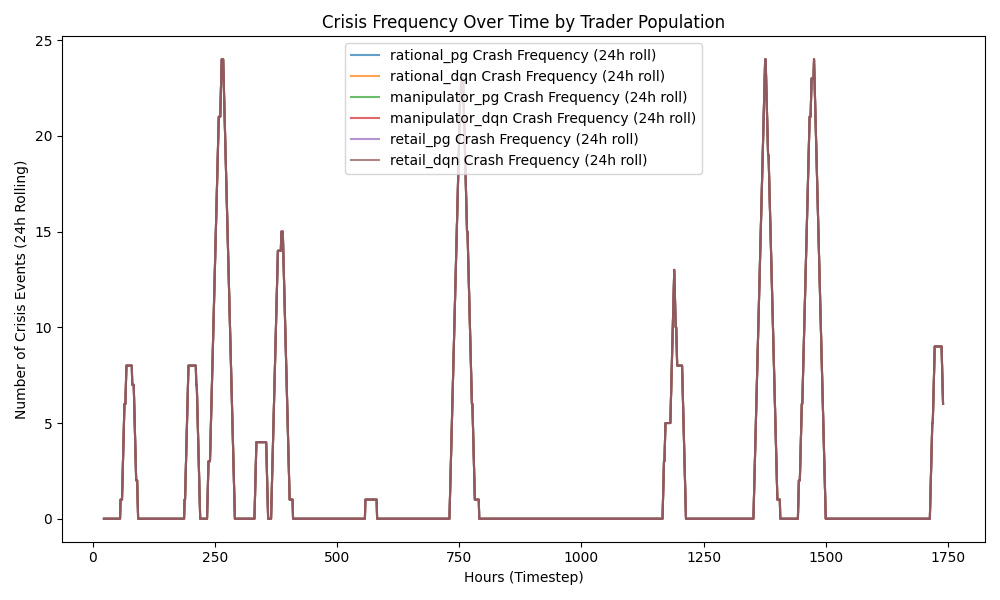
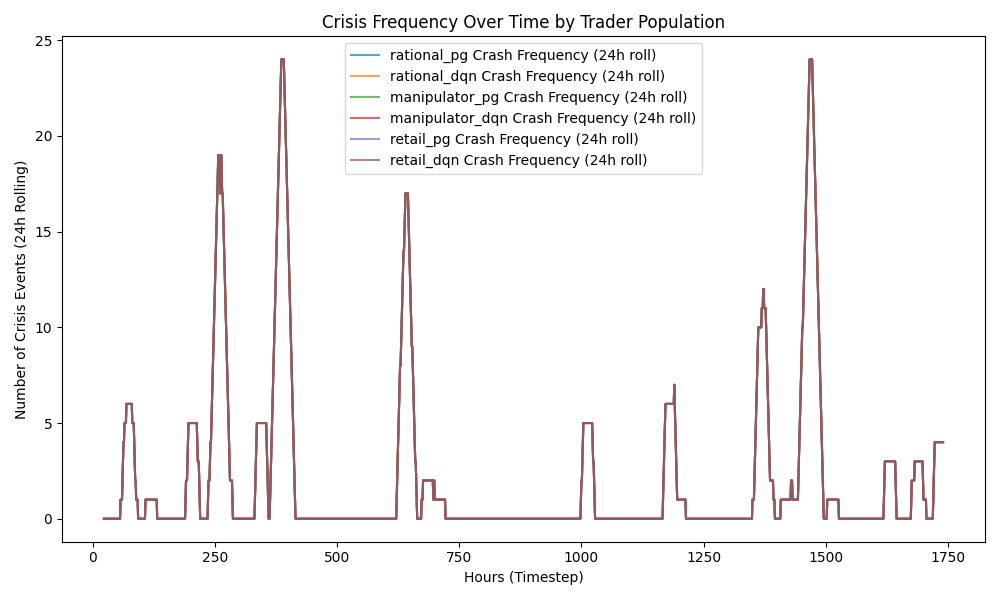
updates

diff --git a/src/evaluation/plotting.py b/src/evaluation/plotting.py
@@ -3,7 +3,7 @@ import pandas as pd
 import numpy as np
 from pathlib import Path
 
-def plot_crisis_frequency(logs_dict, out_dir: Path):
+def plot_crisis_frequency(logs_dict, out_dir: Path, prefix: str = ""):
     """
     Plots the frequency of "crashes" or extreme drawdowns 
     based on the action logs from different populations.
@@ -25,10 +25,11 @@ def plot_crisis_frequency(logs_dict, out_dir: Path):
     plt.ylabel("Number of Crisis Events (24h Rolling)")
     plt.legend()
     plt.tight_layout()
-    plt.savefig(out_dir / "crisis_frequency.png")
+    filename = f"{prefix}_" + "crisis_frequency.png" if prefix else "crisis_frequency.png"
+    plt.savefig(out_dir / filename)
     plt.close()
 
-def plot_market_efficiency(logs_dict, out_dir: Path):
+def plot_market_efficiency(logs_dict, out_dir: Path, prefix: str = ""):
     """
     Proxies market efficiency by looking at Sharpe Ratio or 
     Volatility over time as strategy execution progresses.
@@ -48,10 +49,11 @@ def plot_market_efficiency(logs_dict, out_dir: Path):
     plt.ylabel("Annualized Sharpe Ratio")
     plt.legend()
     plt.tight_layout()
-    plt.savefig(out_dir / "market_efficiency.png")
+    filename = f"{prefix}_" + "market_efficiency.png" if prefix else "market_efficiency.png"
+    plt.savefig(out_dir / filename)
     plt.close()
 
-def plot_stablecoin_stability(logs_dict, out_dir: Path):
+def plot_stablecoin_stability(logs_dict, out_dir: Path, prefix: str = ""):
     # Depending on the dataset, if stablecoins aren't present directly, 
     # we can use portfolio volatility as a proxy for systemic stability.
     plt.figure(figsize=(10, 6))
@@ -64,13 +66,14 @@ def plot_stablecoin_stability(logs_dict, out_dir: Path):
     plt.ylabel("Rolling 24h Volatility")
     plt.legend()
     plt.tight_layout()
-    plt.savefig(out_dir / "stablecoin_stability.png")
+    filename = f"{prefix}_" + "stablecoin_stability.png" if prefix else "stablecoin_stability.png"
+    plt.savefig(out_dir / filename)
     plt.close()
 
-def generate_all_plots(logs_dict, out_dir: str):
+def generate_all_plots(logs_dict, out_dir: str, prefix: str = ""):
     p = Path(out_dir)
     p.mkdir(parents=True, exist_ok=True)
-    plot_crisis_frequency(logs_dict, p)
-    plot_market_efficiency(logs_dict, p)
-    plot_stablecoin_stability(logs_dict, p)
+    plot_crisis_frequency(logs_dict, p, prefix)
+    plot_market_efficiency(logs_dict, p, prefix)
+    plot_stablecoin_stability(logs_dict, p, prefix)
     print(f"Saved plots to {p}")

diff --git a/src/env/crypto_env.py b/src/env/crypto_env.py
@@ -24,6 +24,7 @@ class CryptoInvestEnv(gym.Env):
         add_position_to_obs: bool = True,
         clip_reward: Optional[float] = None,
         risk_lambda: float = 0.0,
+        turn_lambda: float = 0.0,
         step_size: float = 0.5,
         random_start: bool = False,
         horizon: Optional[int] = None,
@@ -40,6 +41,7 @@ class CryptoInvestEnv(gym.Env):
         self.add_position_to_obs = add_position_to_obs
         self.clip_reward = clip_reward
         self.risk_lambda = risk_lambda
+        self.turn_lambda = turn_lambda
         self.step_size = step_size
         self.trader_type = trader_type
 
@@ -118,9 +120,11 @@ class CryptoInvestEnv(gym.Env):
 
         base_reward = (net_port_r - self.rf) / safe_vol
 
+        turn_pen = self.turn_lambda * delta_pos
+
         # Apply trader type behaviors
         if self.trader_type == "rational":
-            reward = base_reward - risk_penalty
+            reward = base_reward - risk_penalty - turn_pen
         elif self.trader_type == "manipulator":
             # Reward turnover and absolute volume, less sensitive to risk
             reward = base_reward * 0.5 + delta_pos * 0.1
@@ -164,7 +168,7 @@ class CryptoInvestEnv(gym.Env):
         obs = self._get_obs() if not terminated else np.zeros(self.observation_space.shape, dtype=np.float32)
         return obs, reward, terminated, truncated, info
 
-def make_env(sym: str, split_df: pd.DataFrame, cost=0.0005, risk_lambda=0.0,
+def make_env(sym: str, split_df: pd.DataFrame, cost=0.0005, risk_lambda=0.001, turn_lambda=0.00001,
              random_start=False, horizon=None, seed=42, trader_type="rational"):
     obs_cols = infer_obs_cols(split_df)
     r_col = f"{sym}_r1h"
@@ -174,6 +178,7 @@ def make_env(sym: str, split_df: pd.DataFrame, cost=0.0005, risk_lambda=0.0,
         r_col=r_col, vol_col=vol_col,
         cost=cost,
         risk_lambda=risk_lambda,
+        turn_lambda=turn_lambda,
         clip_reward=None,
         random_start=random_start,
         horizon=horizon,

diff --git a/src/main.py b/src/main.py
@@ -98,7 +98,7 @@ def main():
 
     # 4. Regulator Analysis Plots
     print("\nGenerating Macro Regulator Plots...")
-    generate_all_plots(all_logs, out_dir=out_dir)
+    generate_all_plots(all_logs, out_dir=out_dir, prefix=args.sym)
 
     # Save summary 
     summary_df = pd.DataFrame(metrics_summary)
